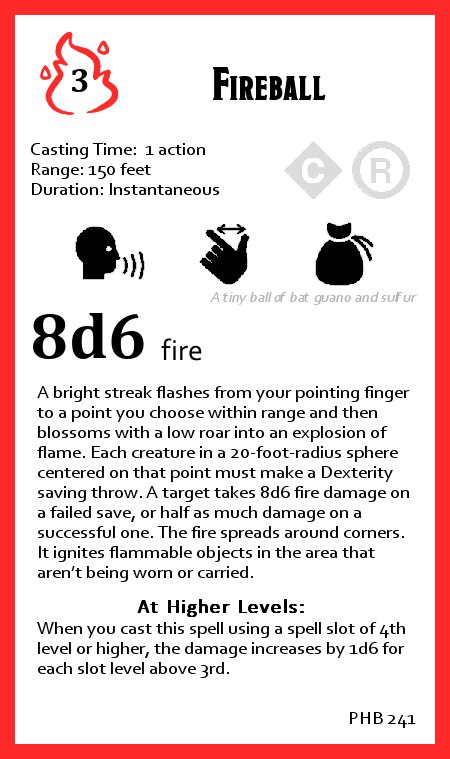
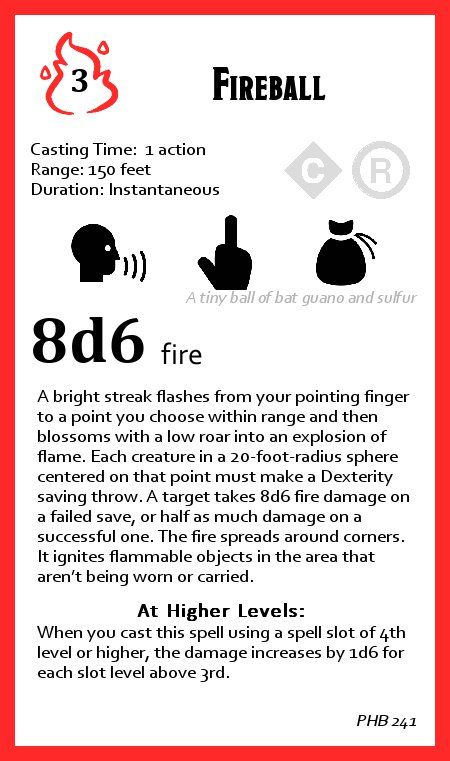
updated components list
just about finished

diff --git a/SpellCardStuff.py b/SpellCardStuff.py
@@ -25,7 +25,7 @@ class CardLayout:
         height = [i[0][0].get_height() for i in self.elements]
         height[0] += 10 #margin under spell level 
         height[4] += 15 #margin above components
-        height[5] -= 10 #remove height of materials
+        height[5] = 10 #remove height of materials
         height[7] += 10 #margin above description
         height[8] += 15 #margin above HL header
         height[10] += 30 #margin above PHB page
@@ -64,7 +64,7 @@ class CardDraw:
         #initialize fonts
         f = [('cambria',34),('Nodesto Caps Condensed Bold.otf',45),\
              ('corbel',19),('arialblack 23',50),('cambria',65),\
-             ('corbel',30),('calibri',20),('corbel',15)]
+             ('corbel',30),('calibri',20),('corbel',17)]
         for i in f:
             if i[0].find('.') == -1:
                 font = pygame.font.SysFont(i[0],i[1])
@@ -90,9 +90,9 @@ class CardDraw:
 
         key = ['V','S','M']
         #import component icons
-        a = pygame.image.load('components2.png')
+        a = pygame.image.load('components.png')
         for i in range(0,3):
-            b = a.subsurface(pygame.Rect(i*100,0,100,100))
+            b = a.subsurface(pygame.Rect(i*200,0,200,200))
             cls.components[key[i]] = b
 
         #draw concentration and ritual icons
@@ -157,7 +157,7 @@ class CardDraw:
         l.add(7,cls.getText(info['description'],cls.fonts[2],15),'CENTER','BOTTOM')
         l.add(8,cls.getText('At Higher Levels:',cls.fonts[6]),'CENTER','BOTTOM')
         l.add(9,cls.getText(info['higher'],cls.fonts[2],15),'CENTER')
-        l.add(10,cls.getText('PHB '+info['page'],cls.fonts[2]),'RIGHT','BOTTOM')
+        l.add(10,cls.getText('PHB '+info['page'],cls.fonts[7]),'RIGHT','BOTTOM')
 
     @classmethod
     def getText(cls,text,font,d=0,color=(0,0,0)):

diff --git a/__main__.py b/__main__.py
@@ -8,7 +8,7 @@ im.__init__()
 width = 450
 
 CardDraw.__init__(width-60)
-content = CardInfo('Inflict_Wounds.txt')
+content = CardInfo('Fireball.txt')
 
 style = CardLayout()
 CardDraw.addElements(style,content.info)
@@ -22,7 +22,7 @@ pygame.display.flip()
 
 while im.manage_input(): pass
 
-pygame.image.save(window,'Inflict_Wounds.jpeg')
+pygame.image.save(window,'Fireball.jpeg')
 pygame.display.quit()
 pygame.quit
 
